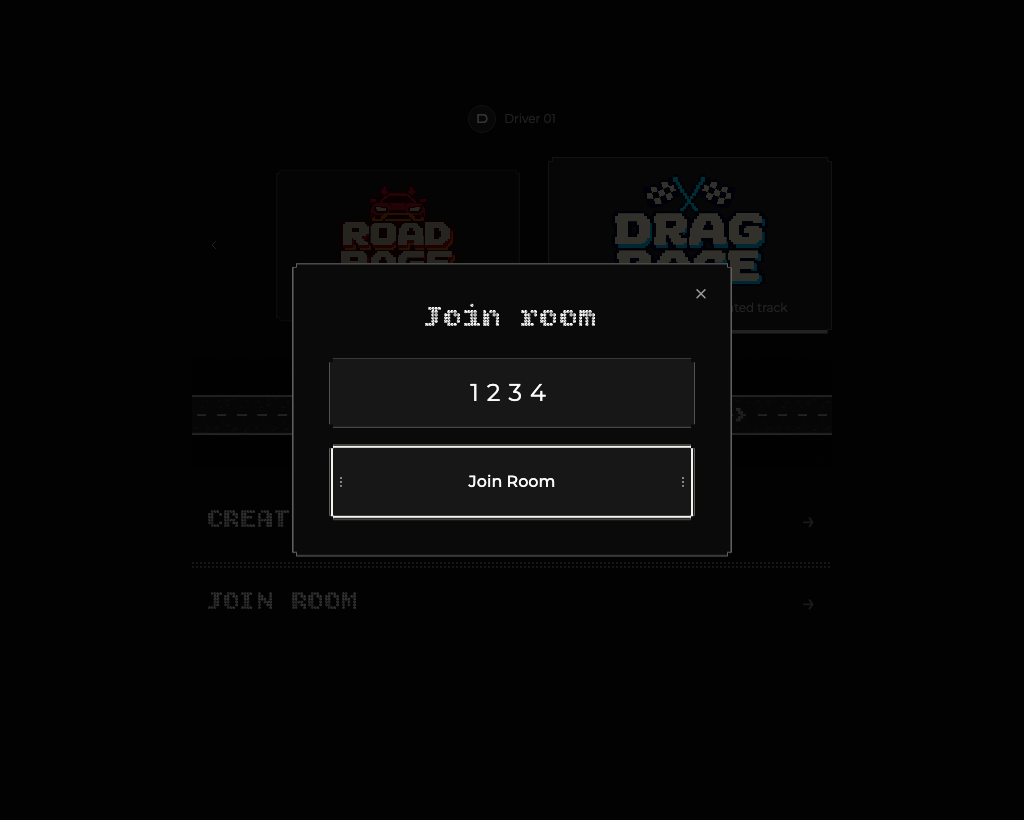
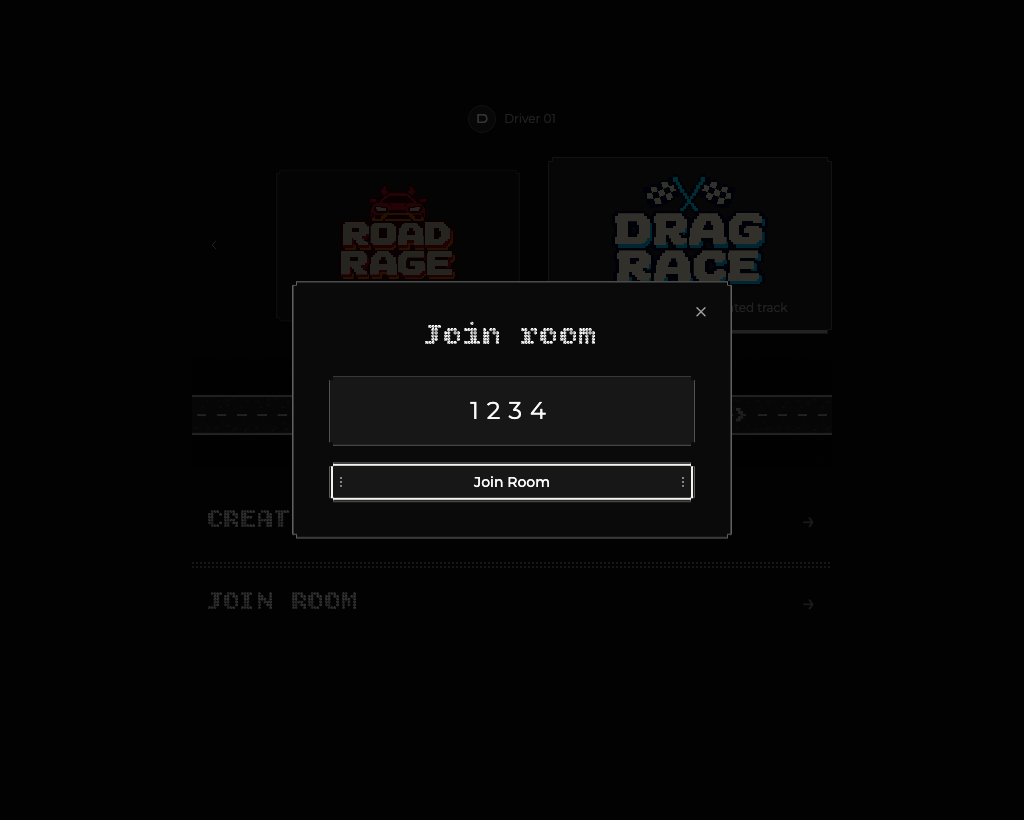
Use compact actions in join and leave dialogs

diff --git a/apps/client/src/screens/LeaveConfirmation.tsx b/apps/client/src/screens/LeaveConfirmation.tsx
@@ -30,7 +30,7 @@ export function LeaveConfirmation({
       onDismiss={onCancel}
     >
       {children}
-      <Button ref={cancel} variant="multiplayer" size="multiplayer" onClick={onCancel}>
+      <Button ref={cancel} variant="multiplayer" size="lg" onClick={onCancel}>
         Cancel
       </Button>
       <Button variant="text" onClick={onConfirm}>

diff --git a/apps/client/src/screens/MultiplayerView.tsx b/apps/client/src/screens/MultiplayerView.tsx
@@ -688,7 +688,7 @@ export function MultiplayerView({
               />
               <Button
                 variant="multiplayer"
-                size="multiplayer"
+                size="lg"
                 disabled={!state || !/^\d{4}$/.test(code)}
               >
                 Join Room
